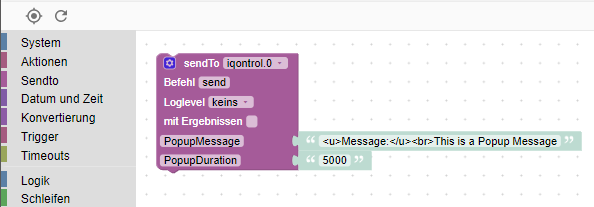
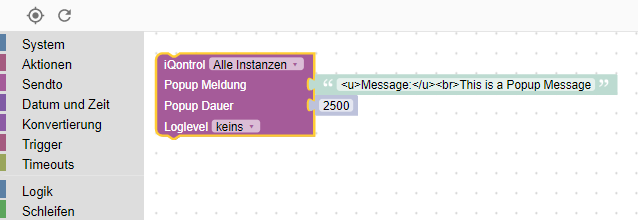
1.1.6 - Added some roles to recognize water and fire sensors more reliable, Added a block to blockly to send popup messages to iQontrol, Set option 'Always use time instead of pressure' as standard - if you want to use ForcedTouch, disable this option.

diff --git a/admin/blockly.js b/admin/blockly.js
@@ -1,0 +1,121 @@
+'use strict';
+
+if (typeof goog !== 'undefined') {
+    goog.provide('Blockly.JavaScript.Sendto');
+
+    goog.require('Blockly.JavaScript');
+}
+
+// remove it somewhere, because it defined in javascript=>blocks_words.js from javascript>=4.6.0
+Blockly.Translate = Blockly.Translate || function (word, lang) {
+    lang = lang || systemLang;
+    if (Blockly.Words && Blockly.Words[word]) {
+        return Blockly.Words[word][lang] || Blockly.Words[word].en;
+    } else {
+        return word;
+    }
+};
+
+/// --- SendTo --------------------------------------------------
+Blockly.Words['iqontrol']              		 = {'en': 'iQontrol',                   'de': 'iQontrol',                           'ru': 'iQontrol'};
+Blockly.Words['iqontrol_popup_message']      = {'en': 'popup message',              'de': 'Popup Meldung',                      'ru': 'Неожиданно возникнуть сообщение'};
+Blockly.Words['iqontrol_popup_duration']     = {'en': 'popup duration',             'de': 'Popup Dauer',                        'ru': 'Неожиданно возникнуть продолжительность'};
+
+Blockly.Words['iqontrol_log']               = {'en': 'log level',                   'de': 'Loglevel',                           'ru': 'Протокол'};
+Blockly.Words['iqontrol_log_none']          = {'en': 'none',                        'de': 'keins',                              'ru': 'нет'};
+Blockly.Words['iqontrol_log_info']          = {'en': 'info',                        'de': 'info',                               'ru': 'инфо'};
+Blockly.Words['iqontrol_log_debug']         = {'en': 'debug',                       'de': 'debug',                              'ru': 'debug'};
+Blockly.Words['iqontrol_log_warn']          = {'en': 'warning',                     'de': 'warning',                            'ru': 'warning'};
+Blockly.Words['iqontrol_log_error']         = {'en': 'error',                       'de': 'error',                              'ru': 'ошибка'};
+
+Blockly.Words['iqontrol_anyInstance']       = {'en': 'all instances',               'de': 'Alle Instanzen',                     'ru': 'На все драйвера'};
+Blockly.Words['iqontrol_tooltip']           = {'en': 'Send message to iQontrol',    'de': 'Sende eine Meldung an iQontrol',     'ru': 'Послать сообщение через iQontrol'};
+Blockly.Words['iqontrol_help']              = {'en': 'https://github.com/sbormann/ioBroker.iqontrol/blob/master/README.md', 'de': 'https://github.com/sbormann/ioBroker.iqontrol/blob/master/README.md', 'ru': 'https://github.com/sbormann/ioBroker.iqontrol/blob/master/README.md'};
+
+Blockly.Sendto.blocks['iqontrol'] =
+    '<block type="iqontrol">'
+    + '     <value name="INSTANCE">'
+    + '     </value>'
+    + '     <value name="POPUP_MESSAGE">'
+    + '         <shadow type="text">'
+    + '             <field name="TEXT">text</field>'
+    + '         </shadow>'
+    + '     </value>'
+    + '     <value name="POPUP_DURATION">'
+    + '         <shadow type="math_number">'
+    + '             <field name="NUM">2500</field>'
+    + '         </shadow>'
+    + '     </value>'
+    + '     <value name="LOG">'
+    + '     </value>'
+    + '</block>';
+
+Blockly.Blocks['iqontrol'] = {
+    init: function() {
+        var options = [[Blockly.Translate('iqontrol_anyInstance'), '']];
+        if (typeof main !== 'undefined' && main.instances) {
+            for (var i = 0; i < main.instances.length; i++) {
+                var m = main.instances[i].match(/^system.adapter.iqontrol.(\d+)$/);
+                if (m) {
+                    var n = parseInt(m[1], 10);
+                    options.push(['iqontrol.' + n, '.' + n]);
+                }
+            }
+        }
+        if (!options.length) {
+            for (var u = 0; u <= 4; u++) {
+                options.push(['iqontrol.' + u, '.' + u]);
+            }
+        }
+        this.appendDummyInput('INSTANCE')
+            .appendField(Blockly.Translate('iqontrol'))
+            .appendField(new Blockly.FieldDropdown(options), "INSTANCE");
+
+        this.appendValueInput('POPUP_MESSAGE')
+            .appendField(Blockly.Translate('iqontrol_popup_message'));
+
+        var input = this.appendValueInput('POPUP_DURATION')
+            .appendField(Blockly.Translate('iqontrol_popup_duration'));
+        if (input.connection) {
+            input.connection._optional = true;
+        }
+
+        this.appendDummyInput('LOG')
+            .appendField(Blockly.Translate('iqontrol_log'))
+            .appendField(new Blockly.FieldDropdown([
+                [Blockly.Translate('iqontrol_log_none'),  ''],
+                [Blockly.Translate('iqontrol_log_info'),  'log'],
+                [Blockly.Translate('iqontrol_log_debug'), 'debug'],
+                [Blockly.Translate('iqontrol_log_warn'),  'warn'],
+                [Blockly.Translate('iqontrol_log_error'), 'error']
+            ]), 'LOG');
+
+        this.setInputsInline(false);
+        this.setPreviousStatement(true, null);
+        this.setNextStatement(true, null);
+
+        this.setColour(Blockly.Sendto.HUE);
+        this.setTooltip(Blockly.Translate('iqontrol_tooltip'));
+        this.setHelpUrl(Blockly.Translate('iqontrol_help'));
+    }
+};
+
+Blockly.JavaScript['iqontrol'] = function(block) {
+    var dropdown_instance = block.getFieldValue('INSTANCE');
+    var logLevel = block.getFieldValue('LOG'); 
+    var popupMessage  = Blockly.JavaScript.valueToCode(block, 'POPUP_MESSAGE', Blockly.JavaScript.ORDER_ATOMIC);
+    var popupDuration = Blockly.JavaScript.valueToCode(block, 'POPUP_DURATION', Blockly.JavaScript.ORDER_ATOMIC);
+    var text = '{\n';
+	if (popupMessage)		text += '   PopupMessage: ' + popupMessage + ',\n';
+    if (popupDuration)		text += '   PopupDuration: ' + popupDuration + ',\n';
+    text = text.substring(0, text.length - 2);
+    text += '\n';
+    text += '}';
+    var logText;
+    if (logLevel) {
+        logText = 'console.' + logLevel + '("iqontrol: " + ' + text + ');\n'
+    } else {
+        logText = '';
+    }
+    return 'sendTo("iqontrol' + dropdown_instance + '", "send", ' + text + ');\n' + logText;
+};

diff --git a/www/index.js b/www/index.js
@@ -1160,7 +1160,7 @@ function getStateObject(linkedStateId){ //Extends state with, type, readonly-att
 				result.readonly = true;
 				break;
 
-				case "sensor.alarm.fire":
+				case "sensor.alarm.fire": case "sensor.fire": case "sensor.alarm.flood": case "sensor.flood": case "sensor.alarm.water": case "sensor.water": case "indicator.alarm.fire": case "indicator.fire": case "indicator.alarm.flood": case "indicator.flood": case "indicator.alarm.water": case "indicator.water": case "indicator.leakage":
 				if(result.val) result.plainText = _("triggered"); else result.plainText = " ";
 				if (typeof result.val == 'boolean' || result.val == true || result.val.toString().toLowerCase() == "true" || result.val == false || result.val.toString().toLowerCase() == "false"){ //If bool, add a value list with boolean values
 					result.valueList = {"true": _("triggered"), "false": _("OK")};
@@ -2833,7 +2833,7 @@ function applyToolbarPressureMenu(){
 			if (force > 0 && force < 1 && forceOld == 0){ //Pressure change start
 				//console.log("PRESSURE change start");
 				//-- do nothing --
-			} else if (options.LayoutPressureMenuAlwaysUseFallback || (force >= 1 && forceOld == 0)){ //Pressure change start FALLBACK (direct jump of force from 0 to 1 on some devices)
+			} else if (options.LayoutPressureMenuAlwaysUseFallback != false || (force >= 1 && forceOld == 0)){ //Pressure change start FALLBACK (direct jump of force from 0 to 1 on some devices)
 				//console.log("PRESSURE change start FALLBACK");
 				if (toolbarPressureMenuFallbackTimer) {
 					clearInterval(toolbarPressureMenuFallbackTimer);
@@ -4870,7 +4870,7 @@ function applyViewPressureMenu(){
 			if (force > 0 && force < 1 && forceOld == 0){ //Pressure change start
 				//console.log("PRESSURE change start");
 				//-- do nothing --
-			} else if (options.LayoutPressureMenuAlwaysUseFallback || (force >= 1 && forceOld == 0)){ //Pressure change start FALLBACK (direct jump of force from 0 to 1 on some devices)
+			} else if (options.LayoutPressureMenuAlwaysUseFallback != false || (force >= 1 && forceOld == 0)){ //Pressure change start FALLBACK (direct jump of force from 0 to 1 on some devices)
 				//console.log("PRESSURE change start FALLBACK");
 				if (viewPressureMenuFallbackTimer) {
 					clearInterval(viewPressureMenuFallbackTimer);

diff --git a/admin/index_m.html b/admin/index_m.html
@@ -1258,7 +1258,7 @@
 							</div>
 							<div class="row">
 								<div class="input-field col s12 m6 l4">
-									<input class="value" type="checkbox" id="optionsLayoutPressureMenuAlwaysUseFallback" />
+									<input class="value" type="checkbox" id="optionsLayoutPressureMenuAlwaysUseFallback" checked />
 									<label for="optionsLayoutPressureMenuAlwaysUseFallback" class="translate">Always use time instead of pressure</label>
 									<span class="helper-text"></span>
 								</div>

diff --git a/README.md b/README.md
@@ -347,8 +347,9 @@ In addition to normal thermostat you can define:
 * When passing values to these objects, a popup-message (or toast) is displayed
 * You can use html-tags to format the message
 * The duration is the time in ms the message is displayed; if the duration is 0 the message has to be confirmed
-* Alternatively you can set these values via sendTo-command (for example by blockly) with the parameters ``PopupMessage`` and ``PopupDuration``
-
+* Alternatively you can set these values via sendTo-command with the parameters ``PopupMessage`` and ``PopupDuration``. 
+    * Example: ``sendTo("iqontrol", "send", {PopupMessage: 'This is my message', PopupDuration: 2500});``
+* You can also use blockly to send messages to iQontrol
 ![Popup Screenshot](img/popup_screenshot.png)
 ![Popup Blockly](img/popup_blockly.png)
 
@@ -357,6 +358,12 @@ In addition to normal thermostat you can define:
 ****
 
 ## Changelog
+
+### 1.1.6 (2020-07-24)
+* (Sebastian Bormann) Added some roles to recognize water and fire sensors more reliable.
+* (Sebastian Bormann) Added a block to blockly to send popup messages to iQontrol.
+* (Sebastian Bormann) Set option "Always use time instead of pressure" as standard - if you want to use ForcedTouch, disable this option.
+* (Sebastian Bormann) Updated some dependencies.
 
 ### 1.1.5 (2020-07-05)
 * (Sebastian Bormann) Made dialog movable by dragging title.
